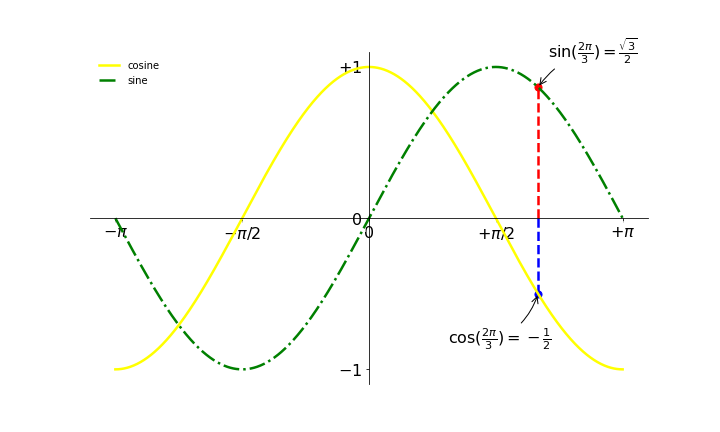
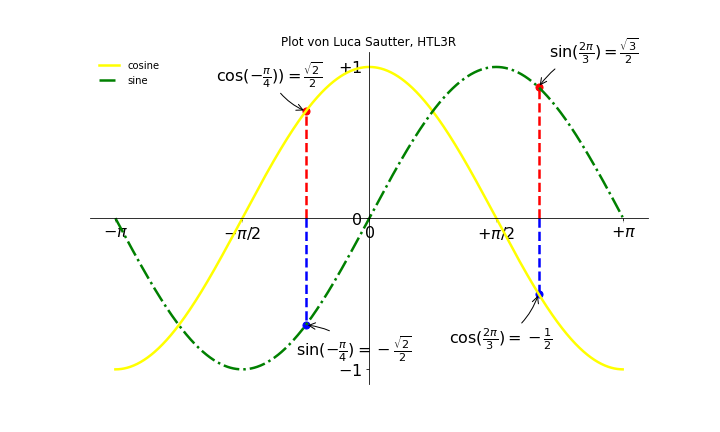
plot1 fertig

diff --git a/sew5p/UE03_Plot/plot1.py b/sew5p/UE03_Plot/plot1.py
@@ -1,7 +1,7 @@
 import matplotlib.pyplot as plt
 import math
 PI = math.pi
-X = [-PI+ i * (2*PI/1024) for i in range(1024 + 1)] # CNT Werte von -pi ... +pi
+X = [-PI+ i * (2*PI/1024) for i in range(1024)] # CNT Werte von -pi ... +pi
 C = [ math.cos(x) for x in X ] # CNT cosinuswerte für x von -pi ... +pi
 S = [ math.sin(x) for x in X ]
 
@@ -50,9 +50,31 @@ for label in ax.get_xticklabels() + ax.get_yticklabels():
     label.set_bbox(dict(facecolor='white', edgecolor='None', alpha=0.65 ))
 ax.set_axisbelow(True)
 
+
+
+t = -PI / 4
+plt.plot([t, t], [0, math.cos(t)], color='red', linewidth=2.5, linestyle="--")
+plt.scatter([t, ], [math.cos(t), ], 50, color='red')
+plt.annotate(r'$\sin(\minus\frac{\pi}{4})=-\frac{\sqrt{2}}{2}$',
+             xy=(t, math.sin(t)), xycoords='data',
+             xytext=(-10, -30), textcoords='offset points', fontsize=16,
+             arrowprops=dict(arrowstyle="->", connectionstyle="arc3,rad=.2"))
+
+plt.plot([t, t], [0, math.sin(t)], color='blue', linewidth=2.5, linestyle="--")
+plt.scatter([t, ], [math.sin(t), ], 50, color='blue')
+plt.annotate(r'$\cos(\minus\frac{\pi}{4}))=\frac{\sqrt{2}}{2}$',
+             xy=(t, math.cos(t)), xycoords='data',
+             xytext=(-90, +30), textcoords='offset points', fontsize=16,
+             arrowprops=dict(arrowstyle="->", connectionstyle="arc3,rad=.2"))
+
+
+
 plt.plot(X, C, color="yellow", linewidth=2.5, linestyle="-", label="cosine")
 plt.plot(X, S, color="green", linewidth=2.5, linestyle="-.", label="sine")
 plt.legend(loc='upper left', frameon=False)
+plt.title("Plot von Luca Sautter, HTL3R")
+
+
 
 plt.savefig("plot1_sautter.png",dpi=72)
 plt.show()
